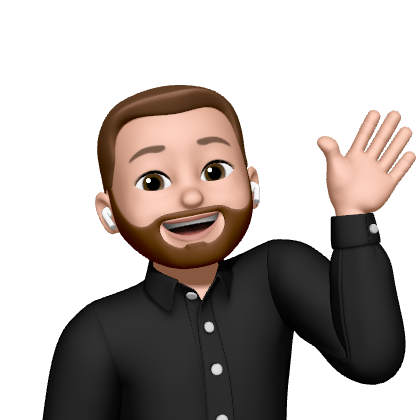
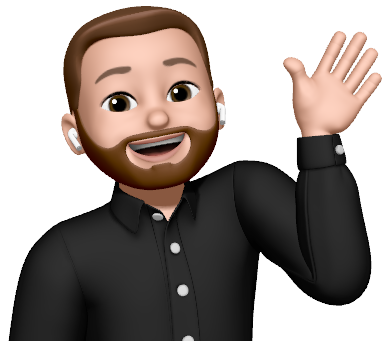
commit 8

diff --git a/src/modules/components/about-me/aboutMe.scss b/src/modules/components/about-me/aboutMe.scss
@@ -6,6 +6,7 @@
     display: flex;
     justify-content: space-around;
     align-items: center;
+    // position: absolute;
 
     .left-side {
         width: 40%;
@@ -43,23 +44,26 @@
         align-items: center;
 
         .pictures {
+            
             display: flex;
             flex-direction: column;
             justify-content: center;
             align-items: center;
+            position: absolute;
 
             .sectionBracerRight {
                 width: 100%;
                 display: flex;
                 justify-content: flex-end;
+                position: relative;
+                top: 5vh;
+                left: 5vw;
 
                 .bracerRight {
                     max-width: 90%;
                     width: 8vw;
                     height: auto;
-                    position: relative;
-                    right: -4vw;
-                    top: 1vh;
+                    
                 }
             }
 
@@ -67,24 +71,24 @@
                 width: 100%;
                 display: flex;
                 justify-content: flex-start;
+                position: relative;
+                top: -2vh;
+                left: -8vw;
 
                 .bracerLeft {
-                    max-width: 90%;
                     width: 8vw;
                     height: auto;
-                    position: relative;
-                    left: -4vw;
-                    bottom: 1vh;
                 }
             }
 
             .myPhoto {
-                max-width: 90%;
-                width: 25vw;
-                height: 40vh;
-                // height: auto;
+                width: 100%;
+                height: auto;
+                text-align: center;
 
-                border: 1px solid black;
+                .myEmoji {
+                    width: 20vw;
+                }
             }
         }
     }

diff --git a/src/modules/components/about-me/AboutMe.js b/src/modules/components/about-me/AboutMe.js
@@ -2,6 +2,7 @@ import bracerRight from '../../images/bracerRight.svg';
 import bracerLeft from '../../images/bracerLeft.svg';
 import './aboutMe.scss';
 import './aboutMe-media.scss';
+import myEmoji from '../../images/hello.PNG';
 
 export default function AboutMe() {
     return (
@@ -24,7 +25,7 @@ export default function AboutMe() {
                         <img src={bracerRight} alt="arrow" className="bracerRight" />
                     </div>
                     <div className="myPhoto">
-                        {/* <img src="" alt="my Photo" className="myPhoto" /> */}
+                        <img src={myEmoji} alt="my Photo" className="myEmoji" />
                     </div>
                     <div className="sectionBracerLeft">
                         <img src={bracerLeft} alt="arrow" className="bracerLeft" />

diff --git a/src/modules/components/about-me/aboutMe-media.scss b/src/modules/components/about-me/aboutMe-media.scss
@@ -12,12 +12,20 @@
 
         .right-side {
             width: 100%;
+ 
 
             .pictures {
                 width: 80%;
+                height: auto;
+                position: static;
 
                 .myPhoto {
                     width: 100%;
+
+                    .myEmoji{
+                        width: 50vw;
+                        height: auto;
+                    }
                 }
 
                 .sectionBracerRight {

diff --git a/src/modules/components/works-section/worksData/workData-media.scss b/src/modules/components/works-section/worksData/workData-media.scss
@@ -3,6 +3,10 @@
 
     .top-section {
         padding: 2vh 0;
+
+        .arrows-section{
+            display: none;
+        }
     }
     .slick-dots {
         // padding-bottom: 5vh;

diff --git a/src/modules/components/footer/footer.scss b/src/modules/components/footer/footer.scss
@@ -1,7 +1,7 @@
 .footer-section {
     width: 100%;
     height: auto;
-    padding: 4vh;
+    padding: 4vh 0;
     display: flex;
     justify-content: center;
     align-items: center;
